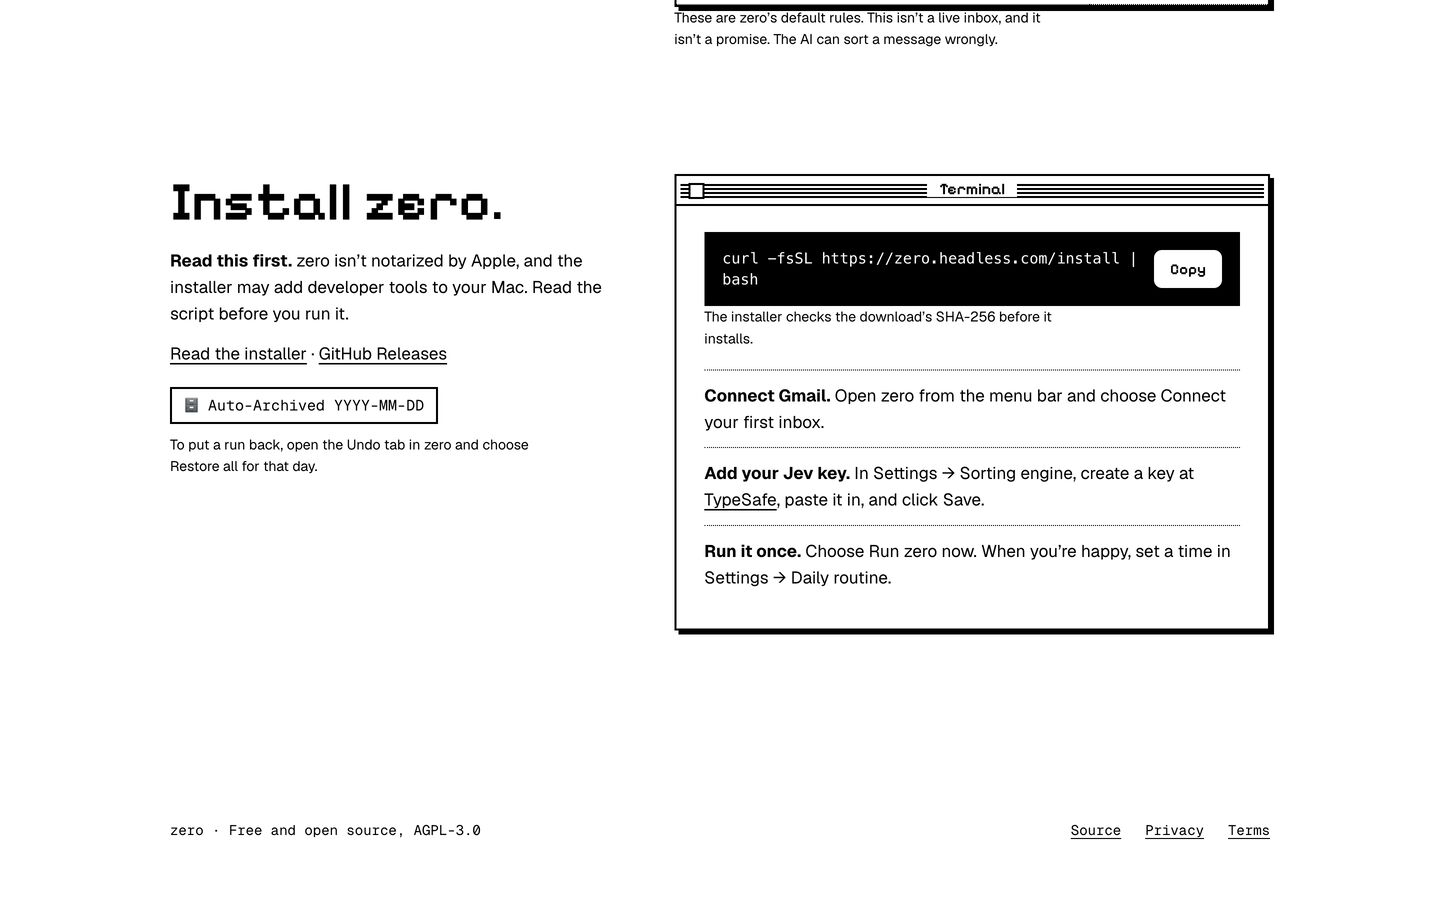
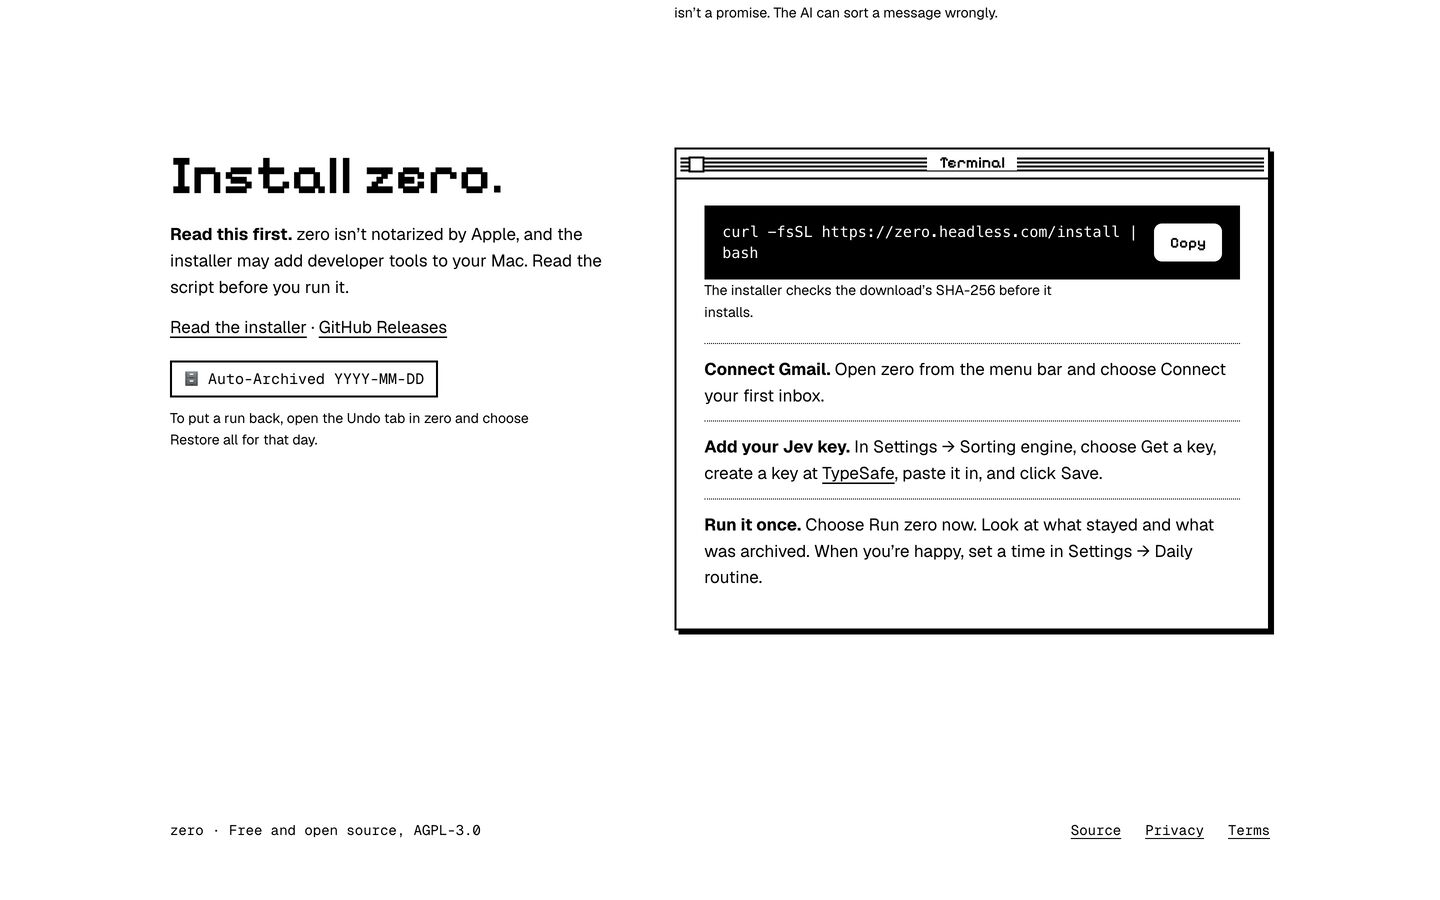
design(website-redesign-2/01): recapture install and phone shots with corrected copy
Aside recapture from a fresh clone of 54b51a9. Adds owner-viewing-path checks
(asset 200s, production route 302/200s) and stated interpretations. Proof-only.

Changed region(s): [[0.4688, 0.1556, 0.9062, 0.6533], [0.0938, 0.1556, 0.4062, 0.5289], [0.4688, 0.0, 0.875, 0.0622]]

diff --git a/missions/website-redesign-2/slices/01-research-direction/PROOF.md b/missions/website-redesign-2/slices/01-research-direction/PROOF.md
@@ -6,7 +6,8 @@ Start with `proof/DESIGN-BRIEF.md`. It is the owner-facing summary and the decis
 |---|---|---|
 | Ten inspected URLs with dated evidence and distinct lessons | `proof/references.md`; `proof/refs/<key>-1.jpg` and `-2.jpg` (20 images) | Aside sessions `154401a085` (Linear, Stripe, Superhuman, HEY, Granola) and `3516485kda` (Raycast, Things, Teenage Engineering, Vercel, Arc, Tailscale, Mercury), 2026-09-29 UTC, at a 1440×900 CSS viewport. I viewed every capture. Vercel and Arc were dropped, and the atlas says why. |
 | Live page audit grounded in screenshots and feedback | `proof/DESIGN-BRIEF.md` §1; `proof/evidence/live-sort.jpg` and `live-rail.jpg` | Two live zero.headless.com frames captured by Aside (02:42 UTC on 2026-09-29), viewed again for this brief. The hero and warning claims were checked against the `landing/index.html` and `site.css` source (`.flap-board`, `sr-only` h1, `.warning` in `.install-band`). There is no committed hero frame. Plus the owner's "trash" rejection. |
-| Distinct replacement comps at desktop and mobile, with a static state | `proof/comps/a-first-light.html`, `b-one-bit.html`, `c-native.html` (add `?static`) and `phones.html?<comp>`; captures in `proof/shots/` (17 jpgs) | Aside task `745854eqrl` captured the top, sort and install sections of each comp at 1440, plus `?static`, A at t=0 and three 390 px iframes per comp. `scrollWidth` was 390 in every iframe. I reviewed every shot visually (montaged at 03:19Z and 03:23Z), and an earlier pass (`4188159rpo`) drove the fixes. A later sentence diff against `landing/index.html` restored two abridged install-step phrases in the HTML, so the install shots predate that text-only fix. |
+| Distinct replacement comps at desktop and mobile, with a static state | `proof/comps/a-first-light.html`, `b-one-bit.html`, `c-native.html` (add `?static`) and `phones.html?<comp>`; captures in `proof/shots/` (17 jpgs) | Aside task `745854eqrl` captured the top, sort and install sections of each comp at 1440, plus `?static`, A at t=0 and three 390 px iframes per comp. `scrollWidth` was 390 in every iframe. I reviewed every shot visually (montaged at 03:19Z and 03:23Z), and an earlier pass (`4188159rpo`) drove the fixes. A later sentence diff against `landing/index.html` restored two abridged install-step phrases in the HTML. The 3 install shots and 4 phone shots were then recaptured by Aside from a fresh `git clone` of `54b51a9` served on 127.0.0.1:8932, and viewed. They show the full steps, with `scrollWidth 390` in every iframe. |
+| Owner viewing path | fresh clone of the repo | Every relative asset in every comp (fonts, `panel-cut.png`, the `assets/` symlink to `landing/assets`) returned HTTP 200 from the clone. GitHub and Releases links returned 200. The production `/install`, `/install.sh`, `/privacy.html` and `/terms.html` returned 302/302/200/200. TypeSafe keys returned 403 to curl. `#before` has no target in the comps (disclosed in the brief, §5). |
 | Copy fidelity | DESIGN-BRIEF §3 | A sentence-level diff of the comp text against the landing text lists every new or reworded line |
 | Concept derivation (impeccable concept-seed) | `proof/evidence/concept-derivation.md` | Product truth was checked against `landing/index.html`. The Jev line was corrected to the landing wording. |
 | Keep/replace/remove inventory | `proof/replacement-inventory.md` | Built from `landing/` at `69f15d2` (file sizes, the `site.js` function list, asset references, nginx routes and tests). It sets exit checks for slice 02. |

diff --git a/missions/website-redesign-2/slices/01-research-direction/proof/DESIGN-BRIEF.md b/missions/website-redesign-2/slices/01-research-direction/proof/DESIGN-BRIEF.md
@@ -90,7 +90,7 @@ It is the category default, and the owner already rejected a dark-board look. It
   - **C:** "It lives in your menu bar. Open it when you want to see what still needs you. Tap any conversation to open it in Gmail." The last sentence echoes the panel's own "Tap any to open it in Gmail".
   - **C:** "zero removes Gmail's Inbox label and adds a label with that day's date." This is shortened from the landing's "adds a recovery label".
   - UI chrome such as window titles ("Default rules", "Terminal") and the "7 items · 3 stay in Inbox" Finder bar.
-  - The same diff caught two abridged install steps (a missing "choose Get a key" and "Look at what stayed and what was archived"). Both were restored in the comps after the `shots/` were captured, so the install shots show the older, shorter steps.
+  - The same diff caught two abridged install steps (a missing "choose Get a key" and "Look at what stayed and what was archived"). Both were restored in the comps, and the install and phone shots were recaptured afterwards (Aside, 03:26–03:27Z). They now show the full steps.
 - **Before you install** and the FAQ are not comped, but they carry over unchanged (see `replacement-inventory.md`).
 - The app image is the real `zero-panel.png`, cropped to the popover with rounded corners by crop and alpha only (`comps/panel-cut.png`). It is not retouched, and the caption "Names and subjects are made up" stays.
 - Illustrative values are labelled:
@@ -109,3 +109,12 @@ Choose **A, B or C** (or "A with B's folders", since the dated-folder idea can m
 - **Mobile is a 390 px-wide same-origin iframe** (`comps/phones.html`), not device emulation: there is no mobile user agent, touch or DPR change. Aside cannot set a true viewport. All three comps measured `scrollWidth 390` at 390, so there is no horizontal overflow.
 - The first viewport, the rules section and install are comped. Before you install, the FAQ, privacy and terms are not.
 - A's sunbeam intensity is judged on one display only.
+- The comps' "Before you install" nav link (`#before`) has no target, because that section is not comped. `/install.sh`, `/privacy.html` and `/terms.html` are root paths. They 404 on a local comp server but resolve on production (checked 03:26Z: `/install` and `/install.sh` return 302 to GitHub, and privacy and terms return 200). `console.typesafe.ai/keys` returned 403 to curl (it is the same URL the live page uses, and it likely blocks non-browser clients), so that link is unverified from here.
+- The Copy buttons in the comps are visual only. The real copy-to-clipboard code is kept per the inventory.
+
+## 6. Interpretations I had to make
+
+- "Ten references of Linear quality" was read as a **craft bar**, not a style to copy (the SPEC says the same). Twelve sites were inspected, and ten were kept.
+- "Visual comps" were built as runnable HTML with the real app image, not as generated images or Figma frames. This lets motion and the static state be shown honestly.
+- "Mobile" was shown through a 390 px iframe, because Aside cannot emulate a device.
+- The owner said "trash" without naming specific faults, so §1 is my reading, grounded in the frames and source. If the owner's objection was narrower (for example colour only), direction C is the smallest change.

diff --git a/missions/website-redesign-2/slices/01-research-direction/PROGRESS.md b/missions/website-redesign-2/slices/01-research-direction/PROGRESS.md
@@ -8,3 +8,4 @@
 - Wrote `proof/DESIGN-BRIEF.md` (critique, the directions, the recommendation and the owner decision).
 - Status: **awaiting owner choice** (A, B or C). Slice 02 (rebuild) must not start until the owner approves a direction.
 - 03:25Z: Accuracy pass after the handoff. The critique now rests on source-checked claims (flap board, sr-only h1, warning box), and the 390 iframe and static shots were all viewed. A sentence diff restored two abridged install steps in the comps (the shots predate this). New comp lines are listed in DESIGN-BRIEF §3.
+- 03:28Z: At main-lead's request, recaptured the 3 install shots and 4 phone shots from a fresh clone of 54b51a9 (Aside). They now show the corrected install steps. Also checked the owner viewing path (all comp assets return 200 from the clone, and the production routes resolve) and recorded interpretations in DESIGN-BRIEF §6.
